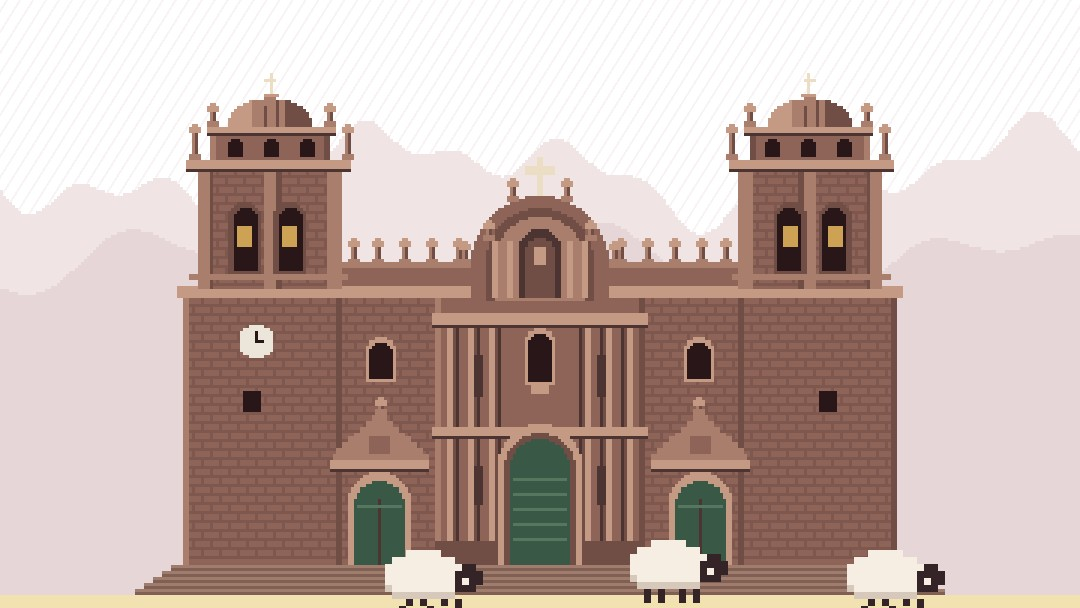
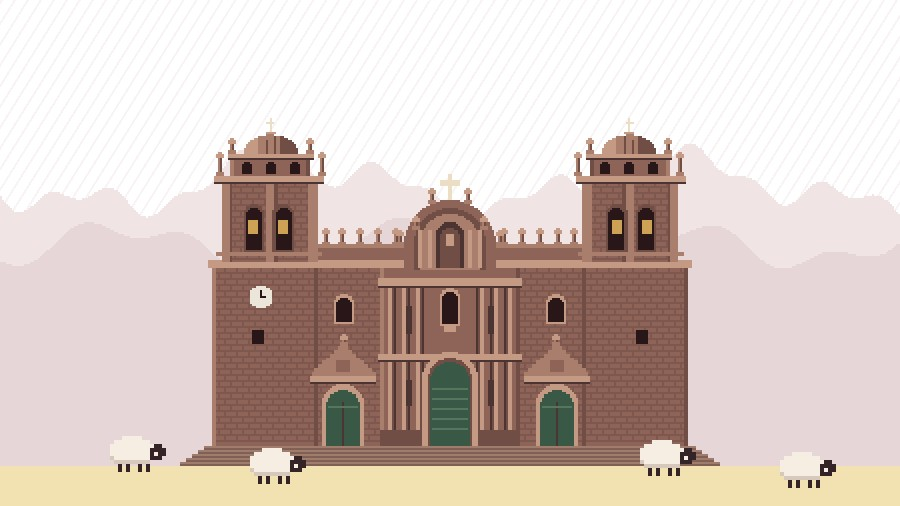
Lo lograron: subtítulo bajo el título y Catedral más pequeña en la cabecera; los artículos admiten subtítulo

diff --git a/assets/css/estilo.css b/assets/css/estilo.css
@@ -146,6 +146,7 @@ h1, h2, h3, .cardo { font-family: "Cardo", serif; }
 .articulo-numero { font-family: "Montserrat", sans-serif; font-size: .85rem; letter-spacing: 1px; color: var(--gris); }
 .articulo-numero a { color: var(--borgona); text-decoration: none; font-weight: 600; }
 .articulo-cabecera h1 { font-size: clamp(2.1rem, 5vw, 3.2rem); font-weight: 700; margin: .7em 0 0; color: #000; }
+.articulo-subtitulo { font-family: "Cardo", serif; font-size: clamp(1.2rem, 2.6vw, 1.55rem); line-height: 1.3; color: #703a42; margin: .5em auto 0; max-width: 34rem; }
 .linea-vertical { height: 60px; width: 1px; border-left: 1px solid #8a7f7f; margin: 30px auto; }
 .articulo-autor img, .autor-inicial {
   width: 80px; height: 80px; border-radius: 50%; object-fit: cover; display: inline-flex;

diff --git a/_layouts/articulo.html b/_layouts/articulo.html
@@ -9,6 +9,7 @@ layout: default
       {% if seccion %} - <a href="{{ seccion.url | relative_url }}">{{ page.category }}</a>{% endif %}
     </span>
     <h1>{{ page.title }}</h1>
+    {% if page.subtitle %}<p class="articulo-subtitulo">{{ page.subtitle }}</p>{% endif %}
     <div class="linea-vertical"></div>
     <div class="articulo-autor">
       {% if page.author_image %}

diff --git a/_posts/2026-11-10-lo-lograron-cusco-sin-cusquenos.md b/_posts/2026-11-10-lo-lograron-cusco-sin-cusquenos.md
@@ -1,5 +1,6 @@
 ---
 title: 'Lo lograron: Cusco sin cusqueños'
+subtitle: 'Más Airbnbs, menos vecinos en el Centro histórico'
 author: Ciudad Sur
 author_image: /assets/img/articulos/autores/ciudad-sur.png
 date: 2026-11-10
